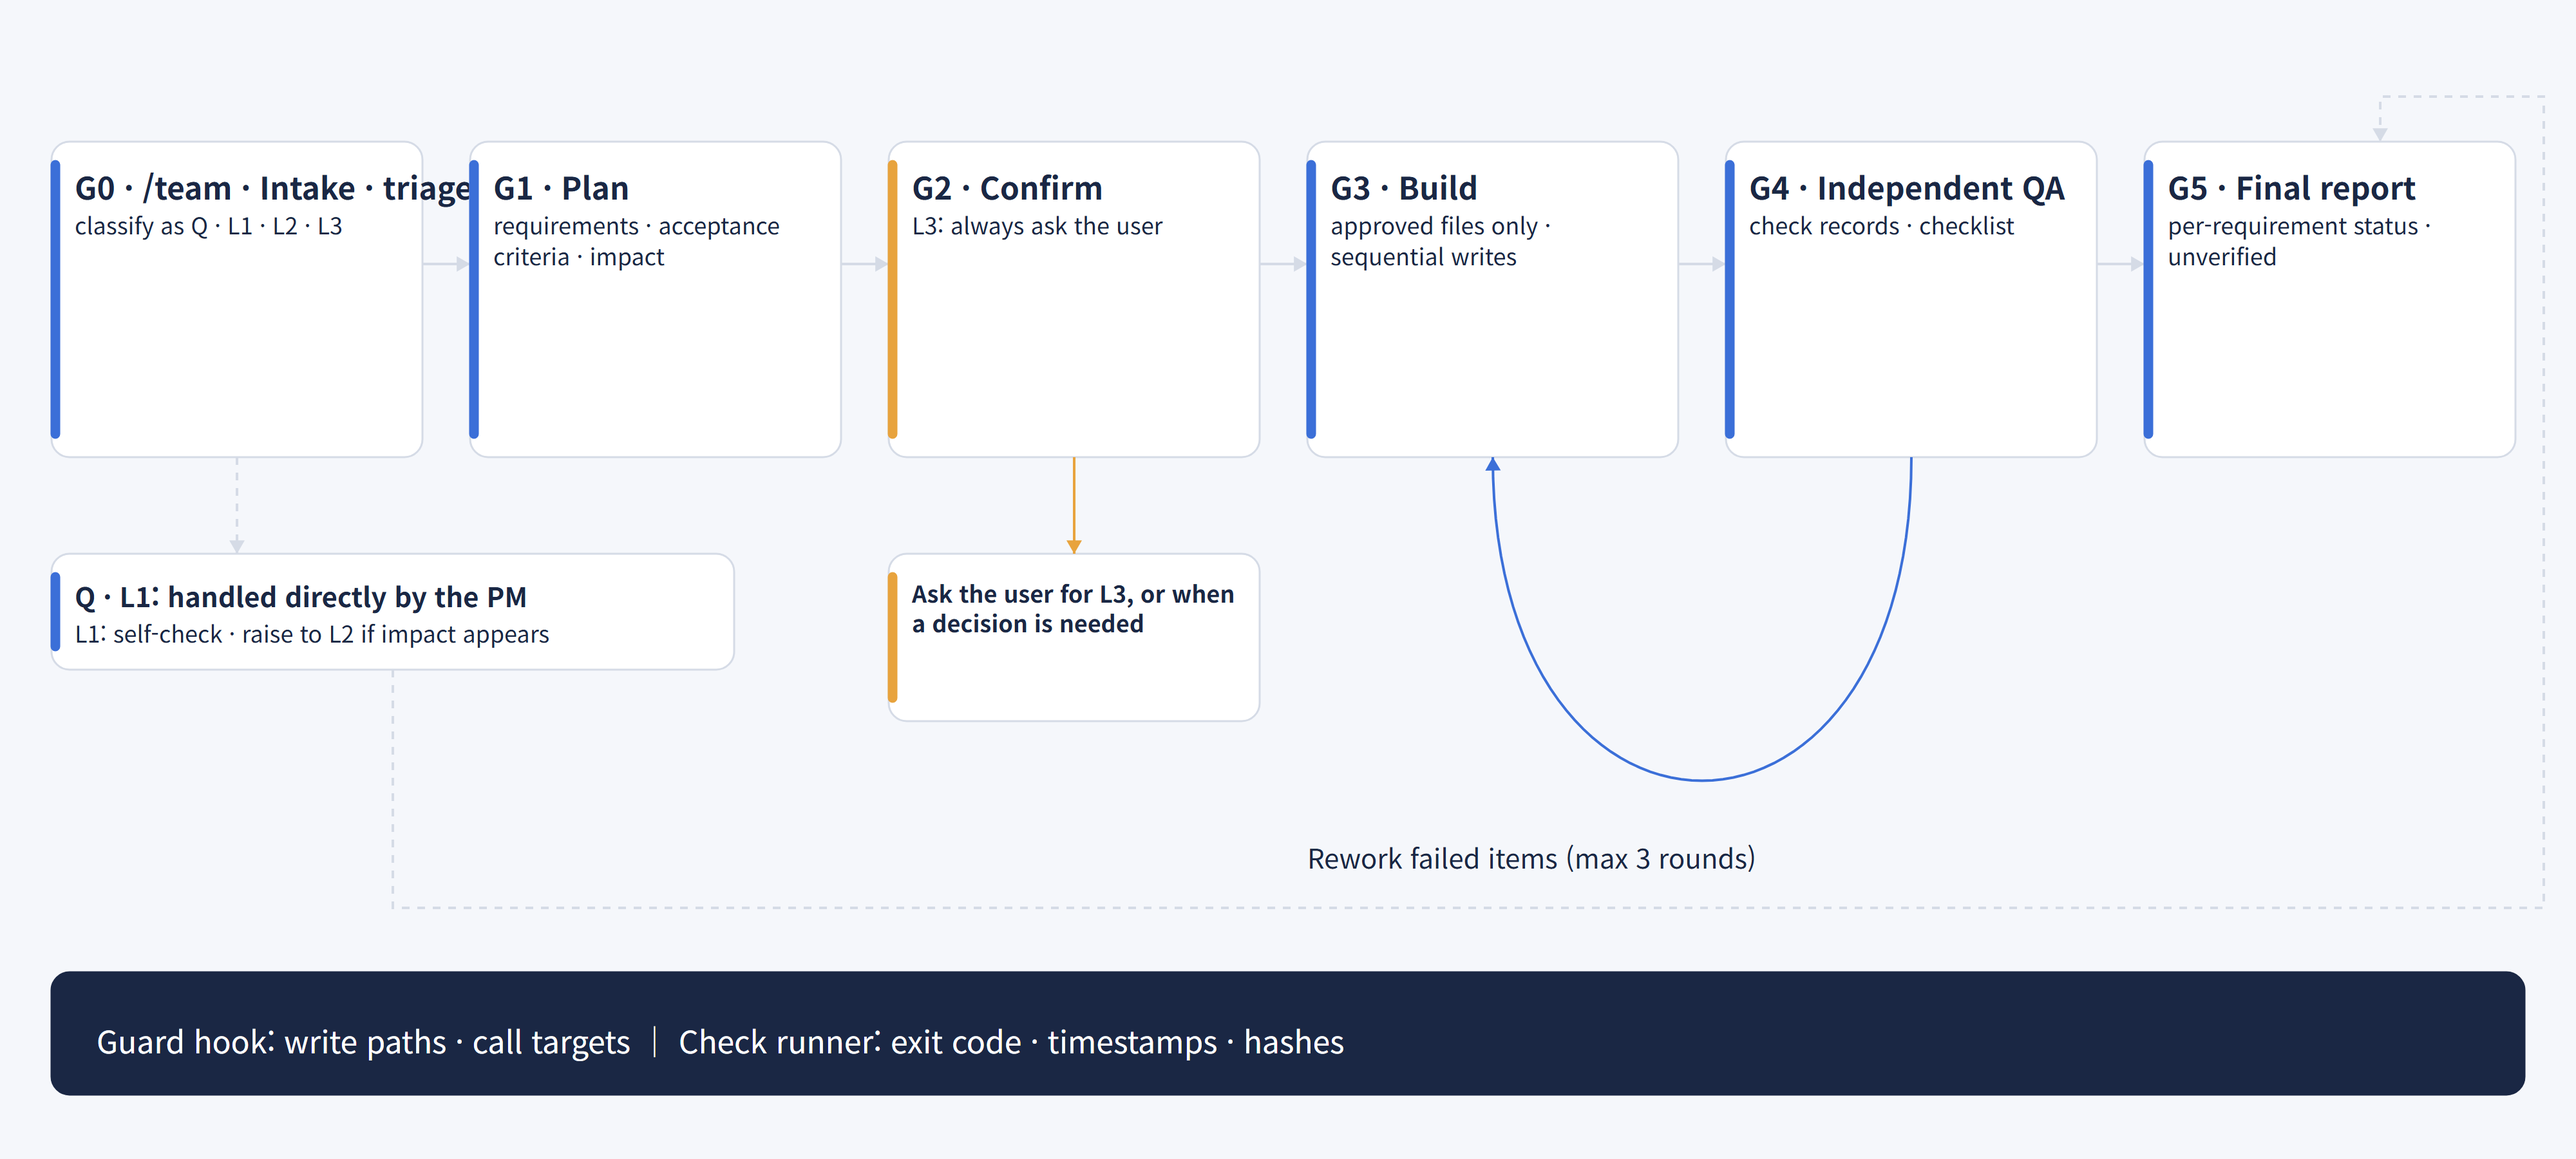
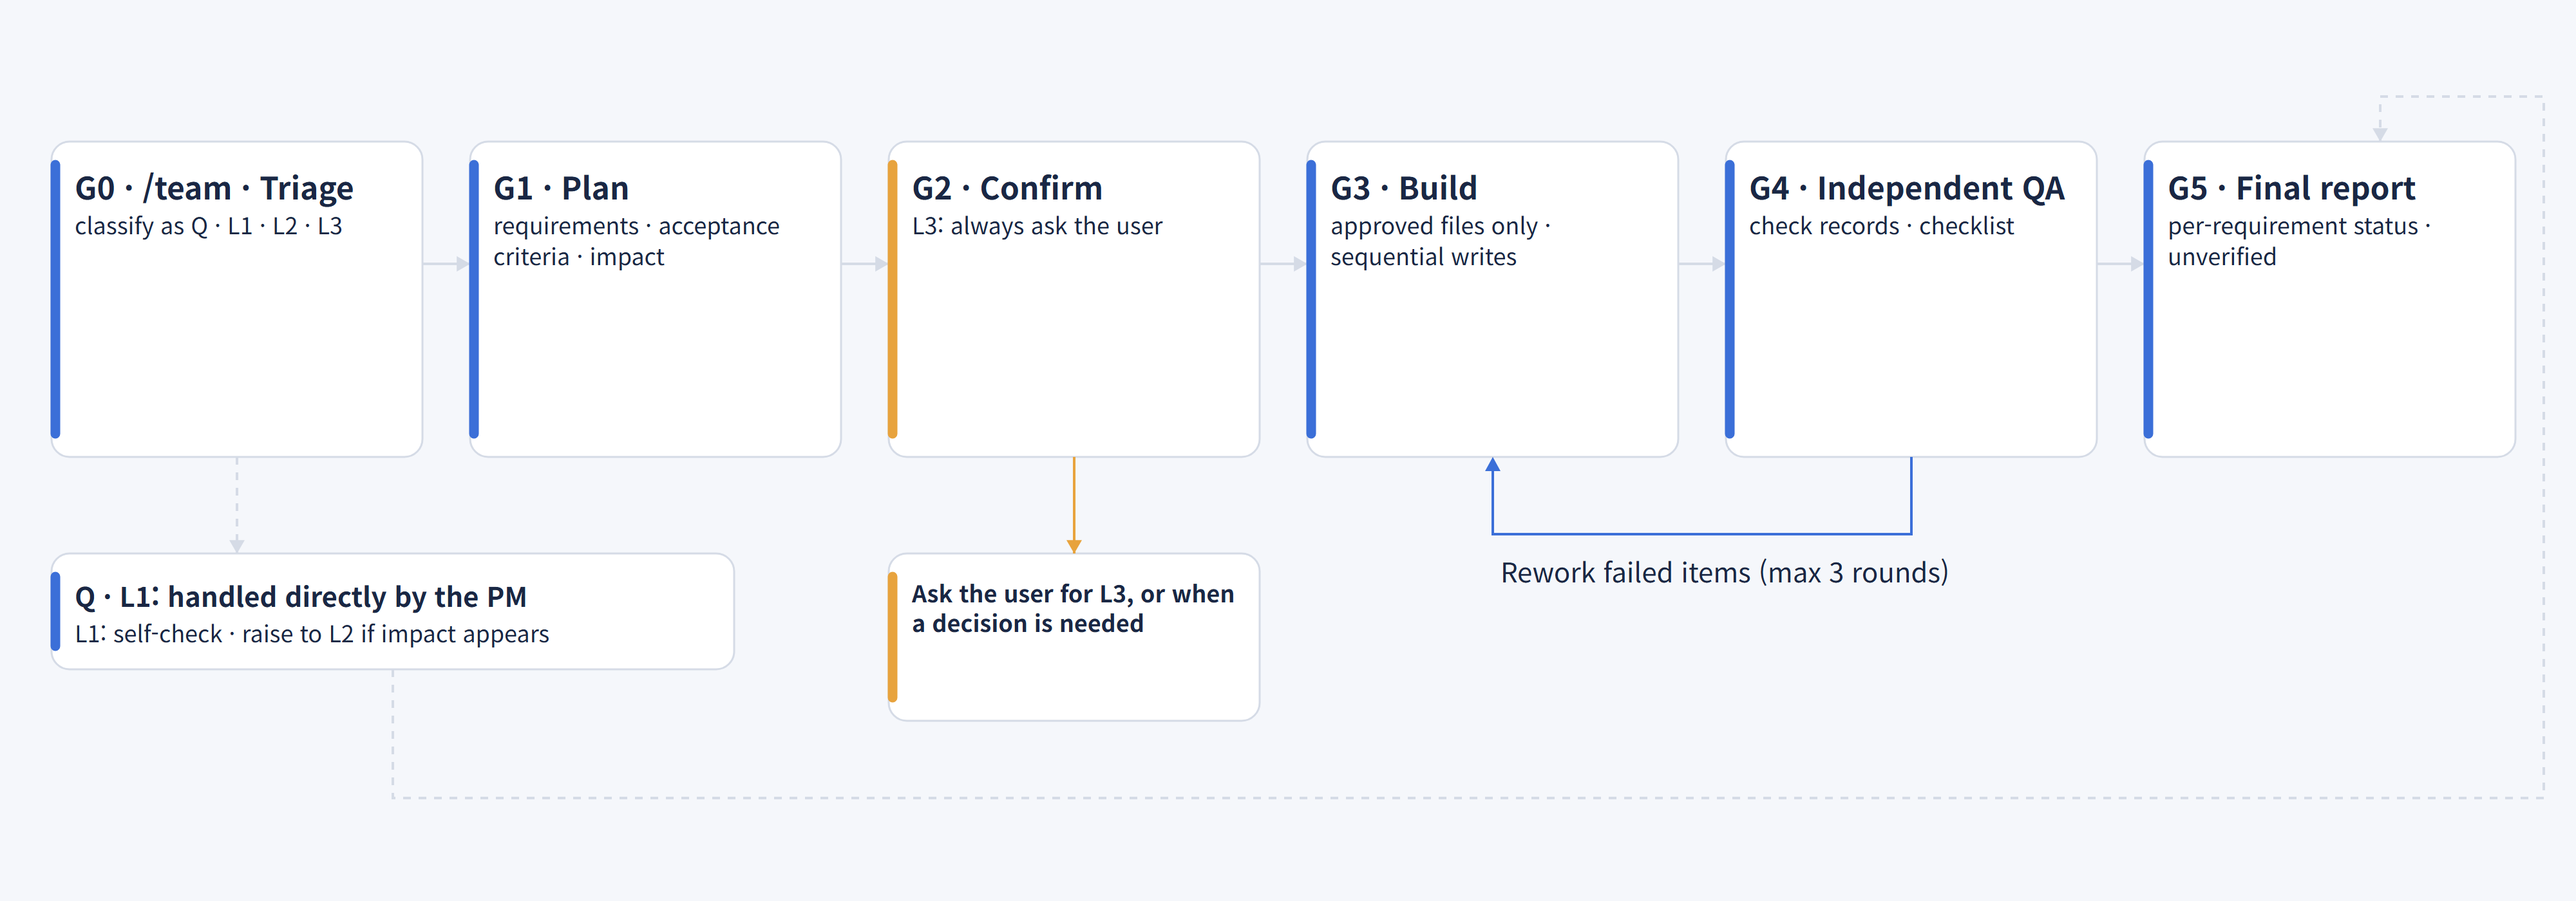
docs: 작업 흐름 이미지의 재작업 화살표를 작게 바꾸고 하단 가드 막대 제거

diff --git a/tools/images/render_readme.py b/tools/images/render_readme.py
@@ -23,7 +23,6 @@ COPY = {
   'subs': ['Q · L1 · L2 · L3로 분류', '요구 분해 · 인수 기준 · 영향 분석', 'L3는 항상 사용자 확인', '승인된 파일만 · 순차 쓰기','검사 기록 원본 · 체크리스트','요구사항별 충족 · 미검증 구분'],
   'skip': 'Q · L1: PM이 직접 처리', 'skip_sub': 'L1은 체크리스트로 자가 점검 · 영향이 보이면 L2로', 'ask': 'L3이거나 판단 필요 시 사용자에게 질문',
   'rework': '실패 항목 재작업 (최대 3회)',
-  'bar': '가드 hook: 쓰기 경로 · 호출 대상 검사 │ 검사 실행기: exit code · 시각 · 해시 기록',
   'request': '/claude-team-base:setup 으로 이 프로젝트에 팀 세팅',
   'install': ['프로젝트 조사','채팅으로 질문','계획 요약 · 확인 1회','스크립트로 적용','보호 장치 점검'],
   'install_sub': ['', 'Lite/Full · Context7 · 금지 영역', '', '기존 파일 보존', '실제 Claude 호출'],
@@ -35,11 +34,10 @@ COPY = {
   'legend': ['coordinate · analyze · verify','edit assigned files'],
   'note': 'All 9 roles are always installed · Lite/Full is chosen at setup',
   'roles': ['triage · chat · confirm · checks · report','coordinates planning','coordinates build','requirements · acceptance criteria','callers · contracts · impact','UI · accessibility','server · business logic','shared contracts · clients','writes tests','independent verification'],
-  'gates': ['/team · Intake · triage','Plan','Confirm','Build','Independent QA','Final report'],
+  'gates': ['/team · Triage','Plan','Confirm','Build','Independent QA','Final report'],
   'subs': ['classify as Q · L1 · L2 · L3', 'requirements · acceptance criteria · impact', 'L3: always ask the user', 'approved files only · sequential writes','check records · checklist','per-requirement status · unverified'],
   'skip': 'Q · L1: handled directly by the PM', 'skip_sub': 'L1: self-check · raise to L2 if impact appears', 'ask': 'Ask the user for L3, or when a decision is needed',
   'rework': 'Rework failed items (max 3 rounds)',
-  'bar': 'Guard hook: write paths · call targets │ Check runner: exit code · timestamps · hashes',
   'request': 'Run /claude-team-base:setup to set the team up in this project',
   'install': ['Inspect project','Questions in chat','Plan summary · 1 confirmation','Apply via script','Verify guard'],
   'install_sub': ['', 'Lite/Full · Context7 · protected areas', '', 'existing files preserved', 'real Claude call'],
@@ -169,20 +167,18 @@ def render(out,fonts):
    v.circle(x,1058,7,color);v.text(x+20,1048,t,19,width=330)
   v.save(out,'agent-team')
 
-  v=Canvas(2000,900,lang,fonts)
+  v=Canvas(2000,700,lang,fonts)
   xs=[40+i*325 for i in range(6)]
   for i,x in enumerate(xs):
    if i:v.path([(x-37,205),(x,205)])
    v.card(x,110,288,245,'G'+str(i)+' · '+c['gates'][i],c['subs'][i],AMBER if i==2 else BLUE,size=24,subsize=18)
   v.path([(184,355),(184,430)],dash=True)
   v.card(40,430,530,90,c['skip'],c['skip_sub'],size=21)
-  v.path([(305,520),(305,705),(1975,705),(1975,75),(1848,75),(1848,110)],dash=True)
+  v.path([(305,520),(305,620),(1975,620),(1975,75),(1848,75),(1848,110)],dash=True)
   v.card(690,430,288,130,c['ask'],color=AMBER,size=18)
   v.path([(834,355),(834,430)],color=AMBER)
-  v.curve((xs[4]+144,355),(xs[4]+144,690),(xs[3]+144,690),(xs[3]+144,355))
-  v.text(1015,650,c['rework'],21,width=850)
-  v.box(40,755,1920,95,NAVY,NAVY)
-  v.text(75,790,c['bar'],24,color='white',width=1850)
+  v.path([(xs[4]+144,355),(xs[4]+144,415),(xs[3]+144,415),(xs[3]+144,355)],color=BLUE)
+  v.text(1175,428,c['rework'],21,width=330)
   v.save(out,'task-workflow')
 
   v=Canvas(2000,700,lang,fonts)
